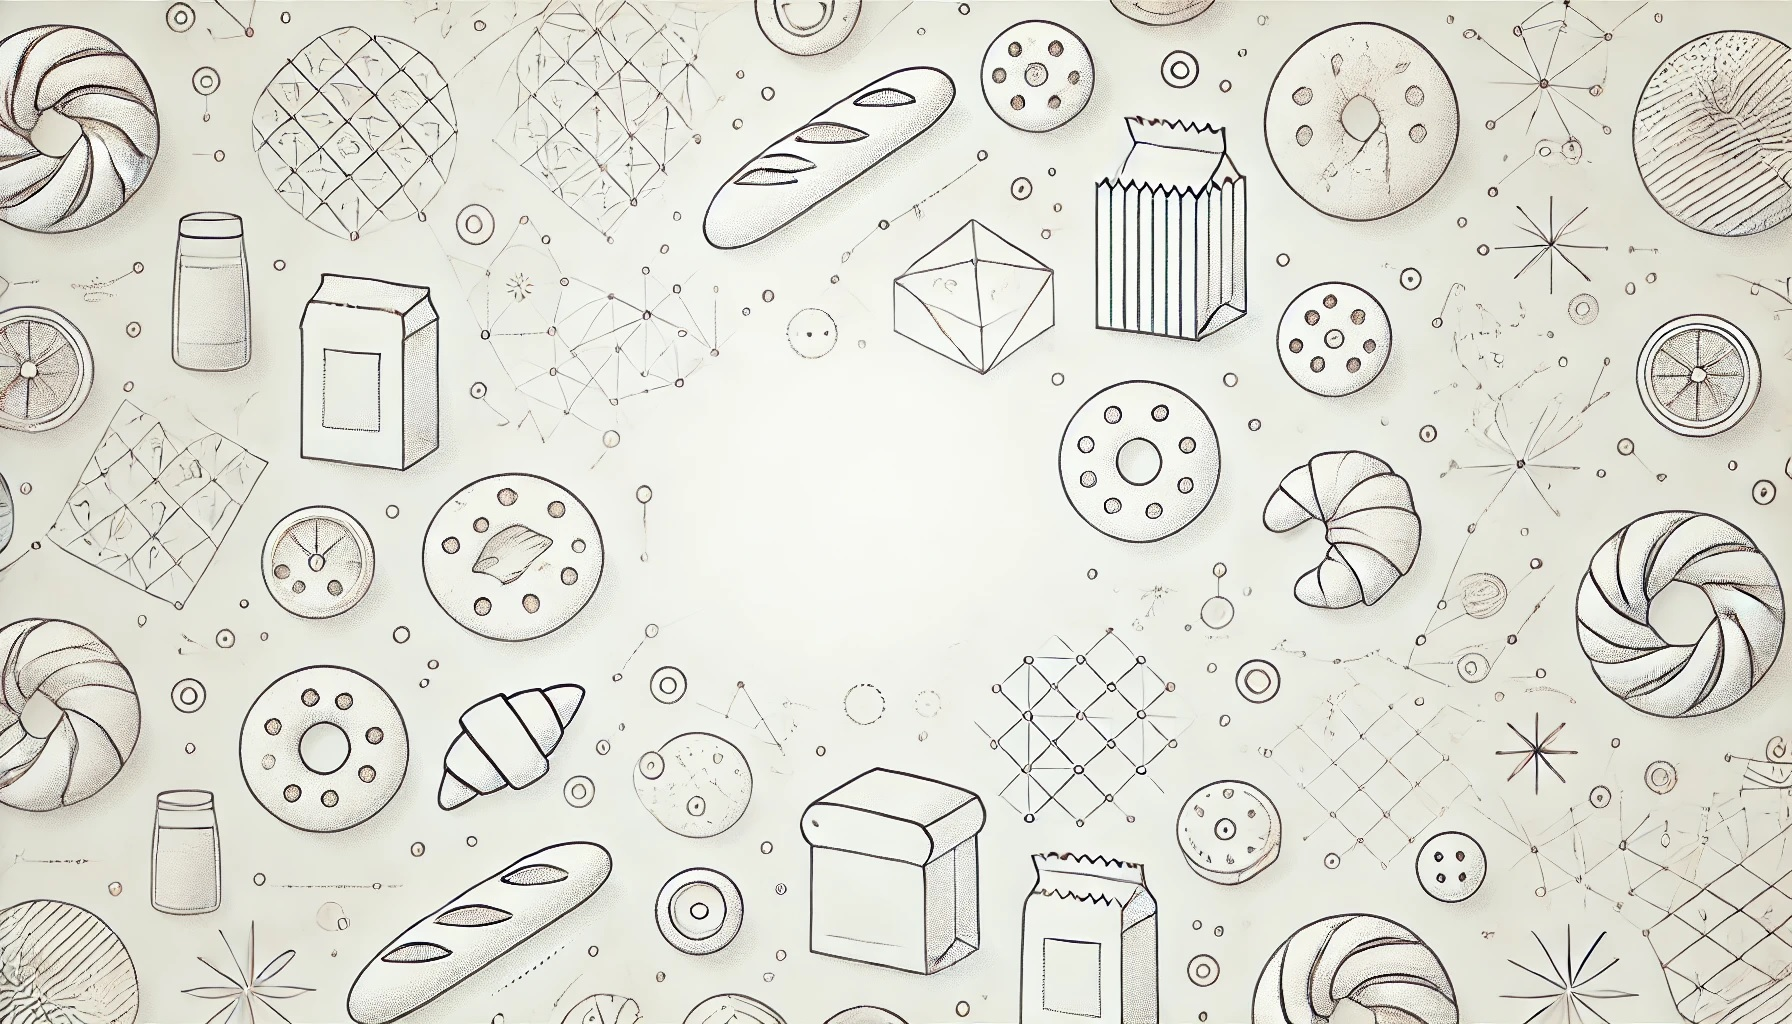
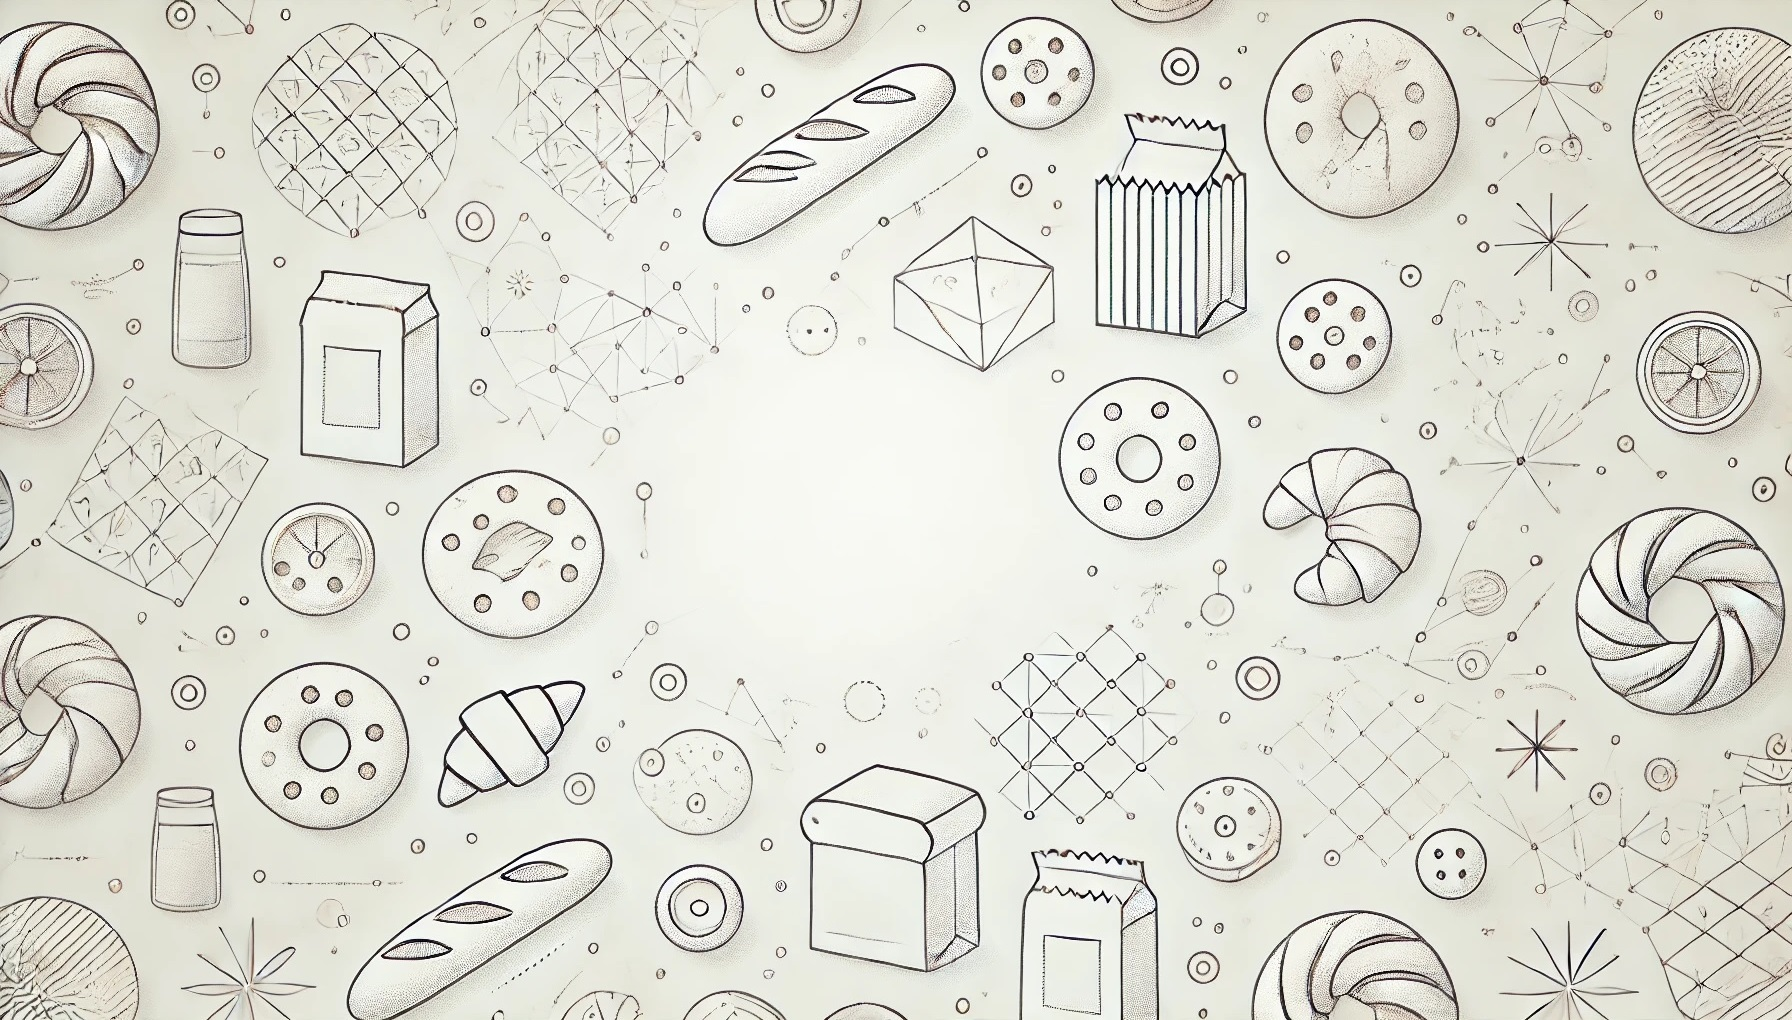
pictures update, added animations, some margins, footer. Some colors have been updated. Now links teleport across the page.

diff --git a/index.html b/index.html
@@ -10,18 +10,18 @@
 	<body>
 		<header>
 			<nav class="header__button">
-				<a href="#main">
+				<a href="#main" onclick="location.href='#main'">
 					<img src="pictures/logo/main_logo.png" alt="company logo">
 				</a>
 			</nav>
 			<nav class="header__action-buttons">
-                <a href="#about">О нас</a>
-                <a href="#services">Услуги</a>
-                <a href="#contact">Контакты</a>
+                <a onclick="location.href='#about_us'">О нас</a>
+                <a onclick="location.href='#services'">Услуги</a>
+                <a onclick="location.href='#contacts'">Контакты</a>
 			</nav>
 		</header>
 		<main>
-			<div class="main__start">
+			<section class="main__start" id="main">
 				<div class="main__slogan-background"></div>
 				<div class="main__slogan">
 					<span class="main__slogan-upper-content">Дарим</span>
@@ -32,8 +32,8 @@
 					</div>
 					<span class="main__slogan-bottom-content">выпечкой</span>
 				</div>
-			</div>
-			<div class="main__second-window">
+			</section>
+			<section class="main__second-window" id="about_us">
 		        <div class="main__second-window-text-block">
 		            <div class="main__second-window-titles">
 			            <h1>Наша история</h1>
@@ -42,8 +42,8 @@
 		            	<p>"Хлебушек" - пекарня с большой буквы. История нашего создания началась еще задолго до появление сети "Интернет": всё началось с увлечения одного умельца, который умел пекти очень вкусный хлеб у себя дома, и эти знания передавались в семье, из поколения в поколение. И вот, через какое-то время, он решил создать уютное место, где такие же умельцы как и он могли бы поделиться их невероятно вкусной выпечкой. Так на свет и появилась пекарня "Хлебушек".<br>Для нашей продукции мы используем традиционные рецепты и высококачественные ингредиенты, такие как мука грубого помола, свежие дрожжи, натуральное молоко и яйца от местных фермеров. «Хлебушек» предлагает широкий ассортимент выпечки: хлеб, булочки, пироги, круассаны, печенье и многое другое. Все изделия готовятся вручную и с любовью.
 		            </div>
 		        </div>
-			</div>
-			<div class="main__third-window">
+			</section>
+			<section class="main__third-window">
 				<div class="main__third-window-titles">
 					<h1>Наша выпечка</h1>
 				</div>
@@ -105,8 +105,8 @@
 						</div>
 					</div>
 				</div>
-			</div>
-			<div class="main__fourth-window">
+			</section>
+			<section class="main__fourth-window" id="services">
 				<div class="main__fourth-window-titles">
 					<h1>Услуги, предоставляемые<br>нашей компанией</h1>
 				</div>
@@ -132,10 +132,23 @@
 						<p class="main__fourth-window-action-text">Мы помогаем создавать оригинальные рецепты и вкусовые комбинации для вашей продукции. Эта услуга идеально подходит для тех, кто хочет выделиться на рынке или предложить своим клиентам что-то новое. Совместно с вами мы разрабатываем уникальные изделия, которые будут соответствовать современным трендам.</p>
 					</div>
 				</div>
-			</div>
+			</section>
 		</main>
-		<footer>
-			<p><br>1<br>2<br>3<br>4<br>5<br>6<br>7<br>8<br>9<br>0<br><br><br><br><br><br><br><br><br><br><br><br></p>
+		<footer id="contacts">
+			<div class="footer__company_label">
+				<img class="footer__company-logo" src="pictures/logo/main_logo.png" alt="company_logo">
+				<p class="footer__company-slogan">Тепло и уют - только с нами!</p>
+			</div>
+			<div class="footer__contacts">
+				<div class="footer__address_contact">
+					<p class="footer__text-highlight">Наш адрес:</p>
+					<p>улица Пушкина<br>дом Колотушкина<br>квартира 727</p>
+				</div>
+				<div class="footer__email">
+					<p class="footer__text-highlight">Связаться с нами:</p>
+					<a href="mailto:hlebyshekcorpmail@gmail.com">hlebyshekcorpmail@gmail.com</a>
+				</div>
+			</div>
 		</footer>
 	</body>
 </html>

diff --git a/styles/styles.css b/styles/styles.css
@@ -22,9 +22,10 @@
 
 /* Размеры с вьюпорта */
 
-html, body {
+body {
 	height: 100%;
 	overflow: auto;
+	background-color: rgb(40, 25, 20);
 }
 
 /* Header */
@@ -93,7 +94,7 @@ main {
 .main__start {
 	display: grid;
 	place-items: center;
-	height: 100%;
+	height: 100vh;
 }
 
 .main__slogan {
@@ -138,11 +139,11 @@ main {
 .main__slogan-background {
     position: absolute;
     z-index: -1;
-    height: 100%;
+    height: 102vh;
     width: 100%;
     background-image: url("../pictures/bg/main_bg.png");
     background-position: center;
-    background-color: rgba(237, 229, 209);
+    background-color: rgba(230, 215, 185);
     background-size: 7.5em;
     filter: blur(1.5px);
     animation: backgroundMove 20s ease-in-out forwards infinite;
@@ -198,7 +199,7 @@ main {
 .main__second-window {
 	position: relative;
 	padding: 12.5vh 7.5vw;
-	background-image: url(../pictures/bg/about_background_image.png);
+	background-image: url(../pictures/bg/about_background_image.jpg);
 	background-size: cover;
 	background-position: center;
 }
@@ -255,6 +256,7 @@ main {
 	font-size: clamp(0.5em, 2vw, 3em);
 	text-align: center;
 	color: rgba(124, 70, 34, 0.95);
+	text-shadow: 0px 0px 2vw rgba(255, 255, 255, 1);
 }
 
 .main__third-window-titles h1::after {
@@ -281,7 +283,7 @@ main {
 	padding: 5%;
 	background-color: white;
 	border-radius: 10%;
-	font-size: clamp(0.5em, 1.5vw, 1.25em);
+	font-size: clamp(0.5em, 1.15vw, 1.5em);
 	box-shadow: 0px 0.8em 1em rgba(0, 0, 0, 0.25);
 	transition: all .35s;
 }
@@ -302,7 +304,7 @@ main {
 	left: -20%;
 	opacity: 0;
 	visibility: hidden;
-	font-size: clamp(0.25em, 1vw, 1.25em);
+	font-size: clamp(0.25em, 1.15vw, 1.5em);
 	transition: all .35s;
 }
 
@@ -323,7 +325,7 @@ main {
 	position: relative;
 	background-image: url(../pictures/bg/background_services.jpg);
 	background-size: cover;
-	padding: 3vw 0;
+	padding: 5vw 0;
 	font-family: FuturaRound;
 	color: rgb(40, 30, 20);
 }
@@ -332,6 +334,7 @@ main {
 	font-size: clamp(0.25em, 2vw, 3em);
 	text-align: center;
 	color: rgba(124, 70, 34, 0.95);
+	text-shadow: 0px 0px 2vw rgba(255, 255, 255, 1);
 }
 
 .main__fourth-window-titles h1::after {
@@ -355,7 +358,8 @@ main {
 	position: relative;
 	width: 100%;
 	margin: 0.5vw auto;
-	font-size: clamp(0.25em, 1vw, 1.25em);
+	font-size: clamp(0.25em, 1.15vw, 1.5em);
+	transition: transform .35s, z-index 1s;
 }
 
 .main__fourth-window-action-button-text {
@@ -372,7 +376,7 @@ main {
 	position: absolute;
 	visibility: hidden;
 	opacity: 0;
-	top: -5%;
+	top: -10%;
 	width: 100%;
 	z-index: 1;
 	padding: 2vw;
@@ -380,6 +384,16 @@ main {
 	border-radius: 1vw;
 	box-shadow: 0px 0.8em 1em rgba(0, 0, 0, 0.15);
 }
+
+.main__fourth-window-action-button:hover {
+	transform: scale(1.05);
+}
+
+.main__fourth-window-action-button:focus-within {
+	transform: scale(1.05);
+	z-index: 1;
+}
+
 
 .main__fourth-window-action-button:focus-within .main__fourth-window-action-text {
 	visibility: visible;
@@ -393,4 +407,59 @@ main {
 	transition: all .35s, z-index 0s;
 	border-radius: 1vw 1vw 0 0;
 	z-index: 2;
+}
+
+/* Футер */
+
+footer {
+	display: grid;
+	grid-template-columns: 1fr 1fr;
+	box-shadow: 0px -10px 25px rgba(0, 0, 0, 0.25);
+	padding: 2.5vw;
+	background-image: url("../pictures/bg/main_bg.png");
+	background-size: 7.5em;
+	background-position: center;
+	background-color: rgba(222, 178, 124, 1);
+	font-family: FuturaRound;
+}
+
+.footer__company_label {
+	display: grid;
+	grid-template-rows: 1fr 0.5fr;
+	margin: auto;
+	font-size: clamp(0.3em, 1.5vw, 1.5em);
+	filter: drop-shadow(0 0 0.5em rgb(222, 178, 124));
+}
+
+.footer__company-slogan {
+	margin: auto;
+}
+
+.footer__company-logo {
+	width: 14.5em;
+	margin: auto;
+}
+
+.footer__contacts {
+	display: grid;
+	grid-template-columns: 1fr 1fr;
+	margin: auto;
+	color: rgb(40, 25, 20);
+	font-size: clamp(0.3em, 1.25vw, 1.5em);
+	text-shadow: 0 0 1em rgb(222, 178, 124);
+}
+
+.footer__contacts a {
+	color: rgb(220, 220, 255);
+}
+
+.footer__text-highlight { 
+	color: rgb(80, 50, 40);
+	font-size: clamp(0.3em, 1.5vw, 1.5em);
+}
+
+/* Разделение между секциями (окнами) */
+
+main section {
+	margin: 0.15vw 0;
 }
